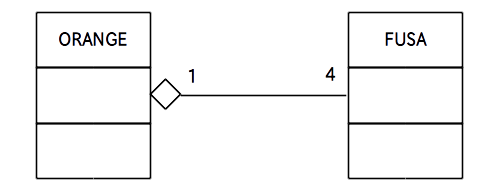
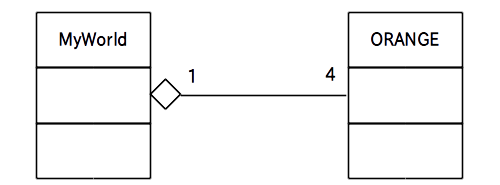
class-diag 更新

Changed region(s): [[0.72, 0.1622, 0.9, 0.2703], [0.12, 0.1622, 0.27, 0.2703]]

diff --git a/docs/activity/class-diag/text01/page04.html b/docs/activity/class-diag/text01/page04.html
@@ -20,18 +20,20 @@
 <h2><script>GetTitle()</script></h2>
 
 <p>
-今度は「関連」の一種である「集約」について学びます。
+ここでは「関連」の一種である「集約」について学びます。
 </p>
 
 <p>
-「集約」は「あるクラスが他のクラスを所有している」「他のクラスから構成されている」などの主従関係を明確に示すために使われます。
-<br>
-「集約」をクラス図で表す場合は所有する側のクラスに中抜きのダイヤマークを付けます。
+「集約」は「一方のクラスがもう一方のクラスの構成物になっている」あるいは「一方のクラスがもう一方のクラスを所有している」などの主従関係を明確に示すために使われます。
+</p>
+
+<p>
+「集約」をクラス図で表す場合はマスター側のクラスに中抜きのダイヤマークを付けます。
 </p>
 
 
 <div class="info">
-<input type="checkbox"><b>図1: 集約</b>
+<input type="checkbox"><b>図1: 集約のクラス図</b>
 <p>
 </p>
 <img src="./img/page04-fig1.png" alt="">
@@ -61,10 +63,10 @@
 </div>
 
 <p>
-は「1 個のみかんは房を 4 個持っている」という解釈でしたので、まさに「集約」を意味しています。
+の場合は「ORANGE は MyWorld を持っている」という解釈は(SFとかならともかく)変なので、普通は「MyWorld は ORANGE を持っている」と解釈されます。
 <br>
-従って中抜きダイヤマークを使って明確に「集約」を表すことができます。
-
+従って次のように「集約」を使って明確に MyWorld がマスターであることを示せます。
+</p>
 
 <div class="info">
 <input type="checkbox"><b>図3: 集約のクラス図の例</b>
@@ -74,8 +76,37 @@
 </div>
 
 <p>
-なお、中抜きダイヤマークが多いとクラス図が見辛くなるので、主従関係が明らかな場合は中抜きダイヤマークを省略して「関連」だけで済ます場合も多いです。
+さてこれで MyWorld と ORANGE の主従関係が明らかになりましたので、MyWorld のコードは次のように書くことが出来ます。
 <br>
+「集約」のコーディング方法には色々なやり方があるのですが、以下の例のようにマスター側クラスのフィールドとしてスレーブ側クラスのインスタンスを定義するのが「集約」の例として一番分かりやすいと思います。
+</p>
+
+<div class="info">
+<input type="checkbox"><b>ソース 1 : 図3 を元にして書いた「集約」のコーディング例 </b>
+<pre class="wrap">
+public class MyWorld{
+
+    private ORANGE orange1,orange2,orange3,orange4;
+
+    public MyWorld() // コンストラクタ
+    {
+         orange1 = new ORANGE();
+         orange2 = new ORANGE();
+         orange3 = new ORANGE();
+         orange4 = new ORANGE();
+    }
+}
+</pre>
+<p>
+※ ちなみに上の例は一般的には「集約」ではなくて「コンポジション」と呼ばれます。「コンポジション」については自分で調べてみて下さい。
+</p>
+</div>
+
+<p>
+なお、中抜きダイヤマークが多いとクラス図が見辛くなるので、<b>主従関係が明らかな場合は中抜きダイヤマークを省略して「関連」だけで済ますことも多いです</b>。
+</p>
+
+<p>
 どの状況では「関連」を使って、どの状況では「集約」を使うべきかという具体的な決まりは特にありませんので、自分でやり易いやり方を見つけたり、所属するチームのやり方に従って下さい。 
 </p>
 

diff --git a/docs/activity/class-diag/text01/page05.html b/docs/activity/class-diag/text01/page05.html
@@ -49,7 +49,8 @@
 </p>
 
 <p>
-例えば前のページの集約のクラス図の例
+例えば前のページで挙げた「集約」の例
+</p>
 
 <div class="info">
 <input type="checkbox"><b>図2: 集約のクラス図の例</b>
@@ -59,26 +60,50 @@
 </div>
 
 <p>
-を元にして、各インスタンスを作った直後のオブジェクト図が次の図 3 です。
+をここでもまた考えてみましょう。
+<br>
+この図 2 を元に作った MyWorld が
 </p>
 
 <div class="info">
-<input type="checkbox"><b>図3　図 2 のクラス図を元にして作ったオブジェクト図</b>
+<input type="checkbox"><b>ソース 1 : 図2 を元にして書いた「集約」のコーディング例 </b>
+<pre class="wrap">
+public class MyWorld{
+
+    private ORANGE orange1,orange2,orange3,orange4;
+
+    public MyWorld() // コンストラクタ
+    {
+         orange1 = new ORANGE();
+         orange2 = new ORANGE();
+         orange3 = new ORANGE();
+         orange4 = new ORANGE();
+    }
+}
+</pre>
+</div>
+
+<p>
+でしたが、MyWorld のインスタンス myworld を new した直後のオブジェクト図が次の図 3 です。
+</p>
+
+<div class="info">
+<input type="checkbox"><b>図3　オブジェクト図の例</b>
 <p>
 </p>
 <img src="./img/page05-fig3.png" alt="">
 </div>
 
 <p>
-ORANGE クラスのインスタンス orange から見ると、 FUSA クラスのインスタンス fusa1、fusa2、fusa3、fusa4 へリンクが 4 本張られています。
+MyWorld クラスのインスタンス myworld から見ると、 ORANGE クラスのインスタンス orange1、orange2、orange3、orange4 へリンクが 4 本張られています。
 <br>
-つまり<b>「orange は fusa1, fusa2, fusa3, fusa4 を持っている」</b>ことを示しています。
+つまり<b>「myworld は orange1, orange2, orange3, orange4 を持っている」</b>ことを示しています。
 </p>
 
 <p>
-逆に fusa1、2、3、4 から orange を見ると 1 本しかリンクが張られていません。
+逆に orange1、2、3、4 から myworld を見ると 1 本しかリンクが張られていません。
 <br>
-つまり<b>「fusa1 は orange に含まれている」、「fusa2 は orange に含まれている」、「fusa3 は orange に含まれている」、「fusa4 は orange に含まれている」</b>ことを示しています。
+つまり<b>「orange1 は myworld に含まれている」、「orange2 は myworld に含まれている」、「orange3 は myworld に含まれている」、「orange4 は myworld に含まれている」</b>ことを示しています。
 </p>
 
 <p>

diff --git a/docs/activity/class-diag/text01/page03.html b/docs/activity/class-diag/text01/page03.html
@@ -64,7 +64,7 @@
 </p>
 
 <div class="info">
-<input type="checkbox"><b>図1: 関連</b>
+<input type="checkbox"><b>図1: 関連のクラス図</b>
 <p>
 </p>
 <img src="./img/page03-fig1.png" alt="">
@@ -83,7 +83,7 @@
 <p>
 ではまた具体的な例を挙げて説明しましょう。
 <br>
-次の ORANGE と FUSA(房) の関係を表したクラス図を見て下さい。
+新たに MyWorld というクラスを作ることにし、MyWorld と ORANGE の関係を図 2 に示す関連のクラス図で表すことにします。
 </p>
 
 <div class="info">
@@ -94,29 +94,23 @@
 </div>
 
 <p>
-この例の様に具体的なクラス名が入ると互いの関係がクリアになることが多いです。
-<br>
-今回は ORANGE が 複数の FUSA によって構成されていることを意味しています。
+さてこのクラス図はリンクをたどる方向によって以下の 2 通りの解釈が可能です。
 </p>
 
 <p>
-さてこの図はリンクをたどる方向によって以下の 2 通りの解釈が可能です。
+<b>方向1: MyWorld → ORANGE</b>
 </p>
 
 <p>
-<b>方向1: ORANGE → FUSA</b>
+この方向の場合は MyWorld からみると ORANGE の多重度が 4 なので「1 つの MyWorld は 4 個の ORANGE と関係がある」という解釈になります。
 </p>
 
 <p>
-この方向の場合は多重度が 4 なので「1 個のみかんは房を 4 個持っている」という解釈になります。
+<b>方向2: ORANGE → MyWorld</b>
 </p>
 
 <p>
-<b>方向2: FUSA → ORANGE</b>
-</p>
-
-<p>
-この方向の場合は多重度が 1 なので「1 個の房は 1 個のみかんの中に含まれている」という解釈になります。
+この方向の場合は ORANGE からみると MyWorld の多重度が 1 なので「1 個のORANGEは 1 つの MyWorld と関係がある」という解釈になります。
 </p>
 
 <br>

diff --git a/docs/activity/class-diag/text01/page01.html b/docs/activity/class-diag/text01/page01.html
@@ -79,10 +79,10 @@ public class FRUIT{
 
     private String name;
 
-    public FRUIT(){}  // コンストラクタ
+    public String get_name(){ return name; } // name の getter
+    public void set_name( String _name ){ name = _name; } // name の setter
 
-    public String get_name(){ return name; } // getter
-    public void set_name( String _name ){ name = _name; } // setter
+    public FRUIT(){}  // コンストラクタ
 
     public void eat()
     {

diff --git a/docs/activity/class-diag/index.html b/docs/activity/class-diag/index.html
@@ -31,7 +31,7 @@
 <li><a href="../oop-element/">オブジェクト指向プログラミングの三大要素</a></li>
 </ol>
 <p>
-最終更新日: 2017/6/20
+最終更新日: 2017/6/21
 </p>
 </div>
 
